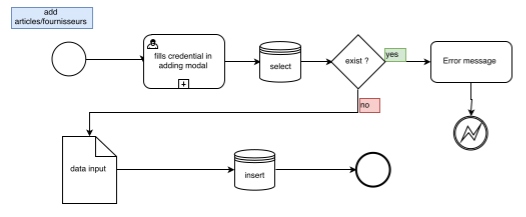
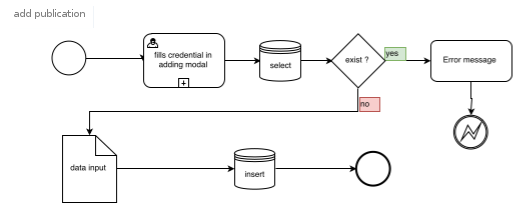
ajout des images modifiers spec technique en cours

diff --git a/docs/Spécifications/Spectechniques.html b/docs/Spécifications/Spectechniques.html
@@ -159,6 +159,7 @@ table, tr, td{
 			<p>Une fois la fonction déclanchée, la commande SQL suivante est alors exécutée :</p>
 			<div class="code2">"INSERT INTO members_posts ($category=?, $title=?, $description, $content=?, $day=?) WHERE user_id='.user_id,[$user_id])->fetch();"</div>				
 			<p> Le contenu est alors ajouté dans la base de données en reçevant un ID généré automatiquement, qui est de type <em>"integer"</em>.</p>
+			<img class="add" src="img/add.png">
 			  
 			<p> Les champs contenus dans la table <strong>members_post</strong> peuvent être remplit dans la base de données tel que : </p>
 
@@ -211,7 +212,7 @@ table, tr, td{
 				<p> la requete suivante:<div class="code1">"SelectArticle()"</div> </p>
 				<p>qui executera la commandes sql suivante :</p>
 				<div class="code">'SELECT * FROM members_posts ORDER BY day DESC'</div>
-				
+				<img class="add" src="img/read_article.png">
 				<p>qui selectionne les champs correspondants dans la base de données :</p>
 
 
@@ -263,237 +264,38 @@ table, tr, td{
 				<img src="img/pencil.png"> via le Menu contextuel,</p>
 
 
-				<p>l'appel ajax </p><div class="code1">"$http.post()"</div><p> est alors effectué pour appeler la fonction</p> 
-				<p><div class="code">"update_article()"</div></p>
-
-				<div class="code">'SELECT * FROM article WHERE id = :id'</div>
+				<p>La fonction</p><div class="code1">"Modifyarticle()"</div><p> est alors appelé</p> 
+				<p>On effectue alors la fonction </p>
+				<p><div class="code">"SelectArticle()"</div></p>
+			
 				<p>qui sélectionne les champs correspondants dans la base de données.</p>
 
 				<p>puis la fonction</p>
-				<div class="code2">'UPDATE article SET articles =:articles , description= :description, reference = :reference, fournisseurs =:fournisseurs, date = :date, stock = :stock  WHERE id = :id'</div>	
+				<div class="code2">'UPDATE members_posts SET  category=?, title=?, description=?, content=?, day=? WHERE users_id =?'</div>	
+				<!-- TODO changer l'image-->
 				<img class="add" src="img/update.png">
 				<p>qui modifie les champs correspondants dans la base de données.</p>
 			
 
-		<h3>3.4 <em>Supprimer un article Tec 1.4 voir Req 1.4</em></h3>
+			<h3>3.4 <em>Supprimer une publication Tec 1.4 voir Req 1.4</em></h3>
 
-				<p><strong>L'utilistateur</strong> aura la possibilité de supprimer un article dans la base de données en cliquant sur l'icône <img src="img/cross.png"> via le tableau.</p>
+				<p><strong>L'utilistateur</strong> aura la possibilité de supprimer un publication dans la base de données en cliquant sur l'icône <img src="img/cross.png"> via le menu contextuel.</p>
 
-				<p> L'appel ajax suivant <div class="code1">"$http.get()"</div> déclanchera la fonction suivante: </p>	
-				<div class="code">"delete_article()"</div>
+				<p> La fonction <div class="code1">"DeleteArticle()"</div> déclanchera la fonction suivante: </p>	
+				<div class="code">"SelectArticle()"</div>
 
-				<p>La commande SQL suivante sera alors executée:</p>
-				<div class="code">"DELETE FROM article WHERE id =$id"</div>
 
-				<img class="add" src="img/delete.png">	
-				<p>Une modal de confirmation s'ouvrira :
-				</p>
-					<!--#todo mettre le code de la confirmation de suppression-->
+				<p> Puis La commande SQL suivante sera alors executée:</p>
+				<div class="code">"DELETE * FROM members_posts WHERE id='.$id,
+                [$user_id])->fetch()"</div>
+
+                <img class="add" src="img/delete.png">
+				
+					
 			
-------FIN ARTICLE-------
+------FIN PUBLICATION-------
 
-			<h3>3.5 <em> Ajouter un fournisseur</em> <span>Tec 2.1 voir Req 2.1</span></h3>
-
-			<p>La fonctionnalité d'ajout s'effectue via un CRUD, par la fonction <div class="code">add_fournisseur()"</div> qui est déclanchée par l'appel ajax suivant :<div class="code	">"$http.post()"</div> </p>
-			<p>Une fois la fonction déclanchée, la commande SQL suivante est alors exécutée :</p>
-			<div class="code2">"INSERT INTO fournisseurs (name, localisation, reference, date) VALUES ('".$name."', '".$localisation."', '".$reference."', '".$date."' )"</div>				
-			<p> Le contenu est alors ajouté dans la base de données en reçevant un ID généré automatiquement, qui est de type <em>"integer"</em>.</p>
-			<p> Les champs contenus dans la table <strong>fournisseurs</strong> peuvent être remplit dans la base de données tel que : </p>
-
-
-			<table class="table-bordered">
-			    <thead>
-			      <tr>
-			        <th>Champs</th>
-			        <th>Type</th>
-			        <th>Usage</th>
-			      </tr>
-			    </thead>
-			    <tbody>
-			      <tr>
-			        <td>"Name"</td>
-			        <td>varchar(255)</td>
-			        <td>Le champ définit le nom du fournisseur et est obligatoire</td>
-			      </tr>
-			      <tr>
-			        <td>"Localisation"</td>
-			        <td>varchar(255)</td>
-			        <td>Permet d'entrer une localisation du fournisseur</td>
-			      </tr>
-			      <tr>
-			        <td>"Référence"</td>
-			        <td>varchar(255)</td>
-			        <td>La référence du fournisseur doit être saisie pour être ajoutée à la base de données</td>
-			      </tr>
-			      <tr>
-			        <td>"Date"</td>
-			        <td>Datetime</td>
-			        <td>Permet de spécifier la date d'entrée via un datepicker (calendrier jquery)</td>
-			      </tr>
-			     
-			    </tbody>
-			  </table>
-
-			
-
-		<h3>3.6 <em> Sélectionner un fournisseur</em> 
-				<span>Tec 2.2 <a>voir</a> Req 2.2</span></h3>
-
-				<p>Lorsque <strong>l'utilisateur</strong> effectue une recherche via le champs prévu à cet effet.</p>  
-				<div class="code"><code>&lt;input type="radio"&gt;</code></div> 
-				<p> L'appel ajax <div class="code1">"$http.get()"</div> est alors effectué pour appeler la fonction </p>
-				<div class="code">"get_fournisseurs()"</div> 
-				<p>qui executera la commande sql suivante :</p>
-				<div class="code2">'SELECT * FROM fournisseurs'</div>
-				<p>qui sélectionne les champs correspondants dans la base de données :</p>
-
-
-			
-
-				<table class="table-bordered">
-			    <thead>
-			      <tr>
-			        <th>Champs</th>
-			        <th>Type</th>
-			        <th>Usage</th>
-			      </tr>
-			    </thead>
-			    <tbody>
-			      <tr>
-			        <td>"Name"</td>
-			        <td>varchar(255)</td>
-			        <td>Le champ définit le nom du fournisseur et est obligatoire</td>
-			      </tr>
-			      <tr>
-			        <td>"Localisation"</td>
-			        <td>varchar(255)</td>
-			        <td>Permet d'entrer une localisation du fournisseur</td>
-			      </tr>
-			      <tr>
-			        <td>"Référence"</td>
-			        <td>varchar(255)</td>
-			        <td>La référence du fournisseur doit être saisie pour être ajoutée à la base de données</td>
-			      </tr>
-			      <tr>
-			        <td>"Date"</td>
-			        <td>Datetime</td>
-			        <td>Permet de spécifier la date d'entrée via un datepicker (calendrier jquery)</td>
-			      </tr>
-			     
-			    </tbody>
-			  </table>
-
-			
-			
-
-		<h3>3.7 <em> Modifier un fournisseur Tec 2.3 voir req 2.3</em></h3>
-
-				<p><strong>L'utilisateur</strong> aura la possibilité de modifier un article dans la base de données en cliquant sur l'icône <img src="img/pencil.png"> via le tableau,</p>
-
-
-				<p>L'appel ajax suivant :</p><div class="code1">"$http.post()"</div><p> est alors effectué pour appeler la fonction</p> 
-				<p><div class="code">"update_fournisseur()"</div></p>
-
-				<div class="code2">'SELECT * FROM fournisseurs WHERE id = :id'</div>
-				<p>qui sélectionne les champs correspondants dans la base de données.</p>
-
-				<p>puis la fonction</p>
-				<div class="code2">'UPDATE article SET articles ='".$articles."' , description ='".$description."' , reference ='".$reference."' , fournisseurs ='".$fournisseurs."' , date ='".$date."' , stock ='".$stock."' WHERE id=".$id'</div>	
-				<p>qui modifie les champs correspondants dans la base de données.</p>
-			
-
-		<h3>3.8 <em> Supprimer un fournisseur Tec 2.4 voir Req 2.4</em></h3>
-
-				<p><strong>L'utilistateur</strong> aura la possibilité de supprimer un article dans la base de données en cliquant sur l'icône <img src="img/cross.png"> via le tableau,</p>
-
-				<p> l'appel ajax suivant <div class="code1">"$http.get()"</div> déclanchera la fonction suivante: </p>	
-				<div class="code">"delete_fournisseur()"</div>
-
-				<p>La commande SQL suivante sera alors executée:</p>
-				<div class="code">"DELETE FROM fournisseurs WHERE id =".$id"</div>
-
-				<p>Une modal de confirmation s'ouvrira :
-				</p>
-					<!--#todo mettre le code de la confirmation de suppression-->
- -----FIN FOURNISSEURS ---- 
-
- 				<h3>3.9 <em> Ajouter un utilisateur</em> <span>Tec 3.1 voir Req 3.1</span></h3>
-
-			<p>La fonctionnalité d'ajout s'effectue via un CRUD, par la fonction <div class="code">"add_user()"</div> qui est déclanchée par l'appel ajax suivant <div class="code">"$http.post()"</div> </p>
-			<p>Une fois la fonction déclanchée, la commande SQL suivante est alors exécutée :</p>
-			<div class="code2">"INSERT INTO users (username, password) VALUES ('".$username."', '".$password."')"</div>				
-			<p> Le contenu est alors ajouté dans la base de données en reçevant un ID généré automatiquement, qui est de type <em>"integer"</em>.</p>
-			<p> Les champs contenus dans la table <strong>users</strong> peuvent être remplit dans la base de données tel que : </p>
-
-
-				<table class="table-bordered">
-			    <thead>
-			      <tr>
-			        <th>Champs</th>
-			        <th>Type</th>
-			        <th>Usage</th>
-			      </tr>
-			    </thead>
-			    <tbody>
-			      <tr>
-			        <td>"Username"</td>
-			        <td>varchar(255)</td>
-			        <td>Le champ définit le nom de l'utilisateur et est obligatoire</td>
-			      </tr>
-			      <tr>
-			        <td>"Password"</td>
-			        <td>varchar(255)</td>
-			        <td>Permet d'entrer un mot de passe</td>
-			      </tr>
-			      <tr>
-			        <td>"Admin"</td>
-			        <td>tinyint(1)</td>
-			        <td>La référence du fournisseur doit être saisie pour être ajoutée à la base de données</td>
-			      </tr>
-			      <tr>
-			        <td>"Date"</td>
-			        <td>datetime</td>
-			        <td>Permet de spécifier la date d'entrée via un datepicker (calendrier jquery)</td>
-			      </tr>
-			      <tr>
-			        <td>"Token"</td>
-			        <td>datetime</td>
-			        <td>Suite de caractères générée automatiquement et aléatoirement pour les sessions de connexions  </td>
-			      </tr>
-			     
-			    </tbody>
-			  </table>
-
-
-
-    		<h3>4.2 <em> Modifier un utilisateur</em> <span>Tec 3.2 voir Req 3.2</span></h3>
-
-
-				<p><strong>L'utilisateur</strong> aura la possibilité de modifier un article dans la base de données en cliquant sur l'icône <img src="img/pencil.png"> via le tableau,</p>
-
-
-				<p>L'appel ajax </p><div class="code1">"$http.post()"</div><p> est alors effectué pour appeler la fonction</p> 
-				<p><div class="code">"update_users()"</div></p>
-
-				<div class="code2">'SELECT * FROM users WHERE id = :id'</div>
-				<p>qui sélectionne les champs correspondants dans la base de données,</p>
-
-				<p>puis la fonction</p>
-				<div class="code2">'UPDATE users SET username ='".$username."' , password ='".$password."' WHERE id=".$id'</div>	
-				<p>qui modifie les champs correspondants dans la base de données.</p>
-
-			<h3>4.3 <em>Supprimer un utilisateur Tec 3.3 voir Req 3.3</em></h3>
-
-				<p><strong>L'utilistateur</strong> aura la possibilitée de supprimer un article dans la base de données en cliquant sur l'icône <img src="img/cross.png"> via le tableau.</p>
-
-				<p> L'appel ajax suivant <div class="code1">"$http.get()"</div> déclanchera la fonction suivante: </p>	
-				<div class="code">"delete_user()"</div>
-
-				<p>La commande SQL suivante sera alors executée:</p>
-				<div class="code">"DELETE FROM users WHERE id =".$id"</div>
-
-				<p>Une modal de confirmation s'ouvrira </p>
-					<!--#todo mettre le code de la confirmation de suppression-->	
+				
 
 			<h3>4.4<em> Se connecter Tec 3.4 voir Req 3.4</em></h3>					
 				<p><strong>L'utilisateur</strong> saisit les champs pour la connexion</p> 
@@ -504,6 +306,8 @@ table, tr, td{
 				<p>puis pour modifier l'identifiant du token de connexion :</p>
 				<div class="code2">"UPDATE users SET token=:token WHERE username=:username AND password=:password"</div>
 
+				<img class="add" src="img/login.png">
+
 			<h3>4.5<em> Reconnexion Tec 3.5 voir Req 3.4</em></h3>
 			<p><strong>L'utilisateur</strong> pourra fermer la fenêtre sans se déconnecter puis la réouvrir et retrouver sa connection, si l'utilisateur ne s'est pas déconnecté alors :</p>
 			<p> l'appel ajax suivant <div class="code1">"$http.get()"</div> déclanchera la fonction suivante: </p>
@@ -511,7 +315,7 @@ table, tr, td{
 			<p>La commande SQL suivante sera alors executée:</p>
 			<div class="code2">"SELECT * FROM users WHERE token='$token'"</div>
 			<p> et vérifiera l'identifiant de connexion dans la base de données </p>
-
+			<img class="add" src="img/check_token.png">
 
 			<h3>4.6<em> Déconnexion Tec 3.6 voir Req 3.5</em></h3>
 			<p><strong>L'utilisateur</strong> pourra se déconnecter en cliquant sur le bouton prévu à cet effet:</p>
@@ -537,18 +341,18 @@ table, tr, td{
 				<li>Linux</li>
 				<li>PHP 7</li>
 				<li>MySQL</li>
-				<li>Angular JS</li>
+				<li>Boostrap</li>
 				<li>jQuery</li>
 			</ul>
 
 			
 			<h3>4.2 <em>Temporelles</em></h3>
 
-			<p>Le temps imposé est de 1 mois. L'estimation de la charge de travail par l'équipe de développement est de 7 semaines.</p>
+			<!--TODO mettre les contraintre temporelle -->
 
 			<h3>4.3 <em>Graphiques</em></h3>
 
-			<p>Pas de charte requise. L'ensemble de l'application sera simple, fonctionnel, facile d'accès avec une interface utilisateur rapide et efficace.</p>
+			<!--TODO mettre la chartes graphique -->
 
 		<hr>
 
@@ -559,13 +363,14 @@ table, tr, td{
 			<h3>5.1 <em>Unified Modeling Language (UML)</em></h3>
 
 			<div class="logo size">
-				<img src="img/2techUml.png">
+			<!-- faire l'uml -->
+				<!-- <img src="img/2techUml.png"> -->
 			</div>
 
 			<h3>5.2 <em>Business Process Modeling Language (BPML)</em></h3>
-
+			<!-- faire le bpml --> 
 			<div class="logo size">
-				<img src="img/Bpmn1.1.png">
+				<!-- <img src="img/Bpmn1.1.png"> -->
 			</div>
 
 	</article>
